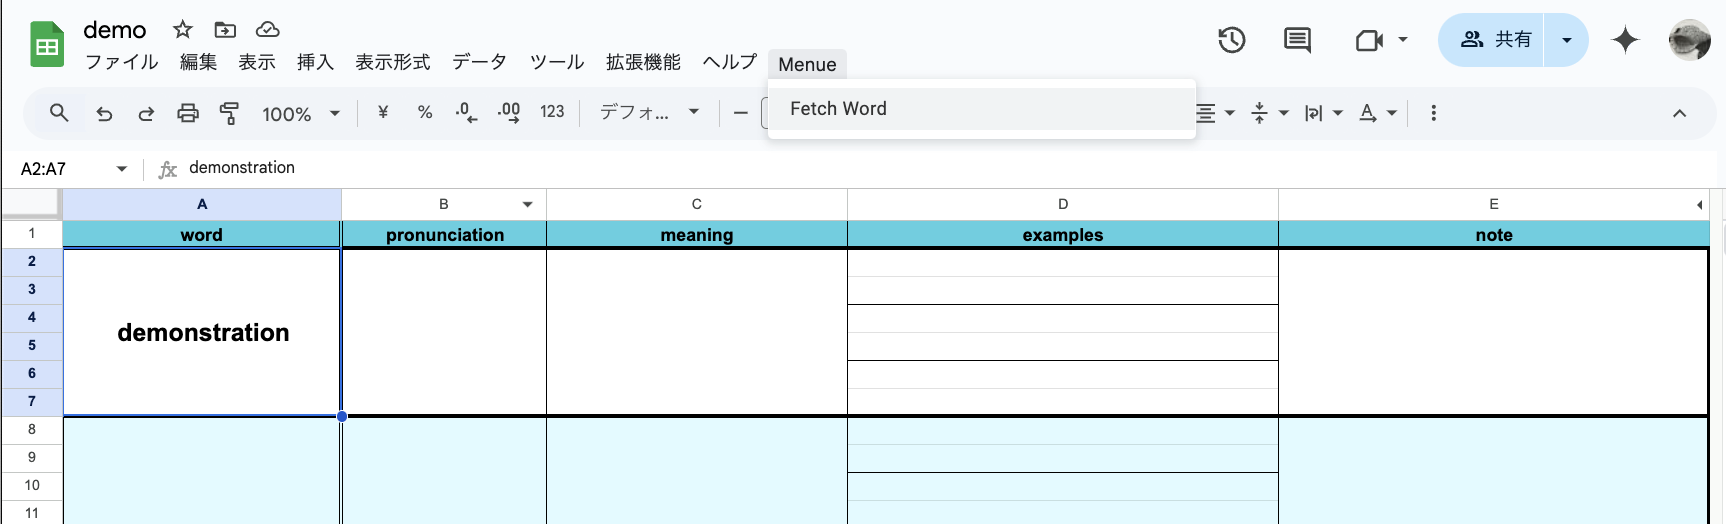
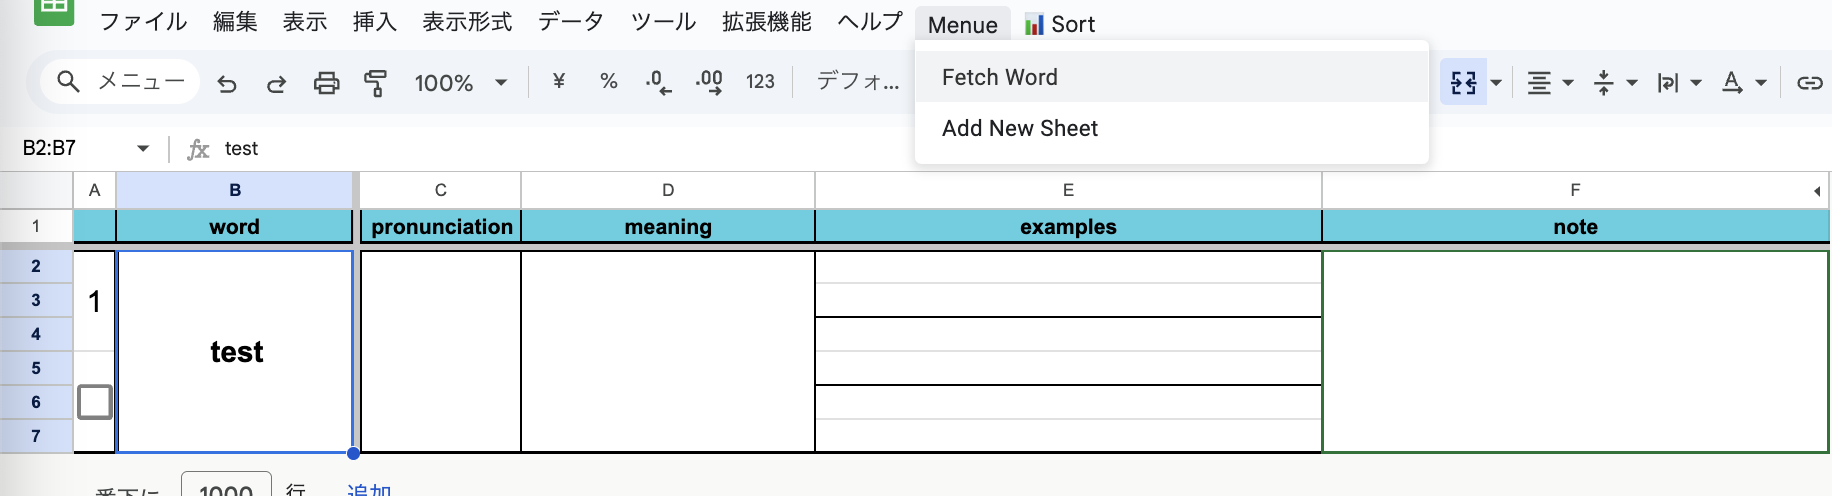
no bug pls

diff --git a/README.md b/README.md
@@ -1,12 +1,10 @@
 # README
 
-![Example Image](asset/gemini_trim.gif)
+![Example Image](asset/gemini240422.gif)
 
-この[スプレッドシート](https://docs.google.com/spreadsheets/d/1H6GYr7bxicvGNF5OTyrranghVtKn2Xm2lNbuyF9b5VQ/copy)は、語学学習者が知らない単語を効率的に検索・記録するためのツールです。以前作成したLaTeXを利用したバージョンよりも導入の負担を軽減する目的で作成されています。
+この[スプレッドシート](https://docs.google.com/spreadsheets/d/1c0rEzWjVzPl2iM8fQuhsog9V-ZLPWn0aZbqlG_HQDmk/copy)は、語学学習者が知らない単語を効率的に検索・記録するためのツールです。以前作成したLaTeXを利用したバージョンよりも導入の負担を軽減する目的で作成されています。
 
 任意の単語について、発音、意味、例文の情報をAI (Gemini)により生成し、それを記録します。
-
-
 
 ## 目次
 
@@ -14,7 +12,8 @@
 2. [機能概要](#機能概要)
 3. [セットアップ手順](#セットアップ手順)
 4. [基本機能](#基本機能)
-5. [シートの追加](#シートの追加)
+5. [ソート機能](#ソート機能)
+6. [シートの追加](#シートの追加)
 
 
 
@@ -46,66 +45,96 @@
 
 ## セットアップ手順
 
-1. **APIキーの取得**:
+1. **APIキーの取得**:  
    このツールは、Google Cloud の Generative Language API を使用します。APIキーを取得して、以下の手順で設定します。
 
    - [Google AI Studio](https://aistudio.google.com/apikey?hl=ja)にアクセス。
    - APIとサービスを有効にし、APIキーを作成します。
 
-        ![Example Image](asset/3.png)
+    ![Example Image](asset/3.png)
 
-2. **シートの準備**:
-    - **シートのコピーを作成**:以下のリンクからスプレッドシートをコピーして利用してください。
+2. **シートの準備**:  
+    **シートのコピーを作成**:以下のリンクからスプレッドシートをコピーして利用してください。
 
-        [こちらからスプレッドシートをコピー](https://docs.google.com/spreadsheets/d/1H6GYr7bxicvGNF5OTyrranghVtKn2Xm2lNbuyF9b5VQ/copy)
+    [こちらからスプレッドシートをコピー](https://docs.google.com/spreadsheets/d/1c0rEzWjVzPl2iM8fQuhsog9V-ZLPWn0aZbqlG_HQDmk/copy)
 
 
-    - **setting シート**: APIキーと使用する言語を設定します。以下の項目を設定してください：
+    - **setting シート**:   
+    **APIキー**と**使用する言語**を設定します。以下の項目を設定してください：
         - `B1`: 使用する言語（例：日本語、英語）
         - `B2`: Gemini APIキー
 
-             ![Example Image](asset/4.png)
+        ![Example Image](asset/4.png)
 
-    - **GASの承認手続き**:
+    - **GASの承認手続き**:  
     スクリプト実行時、GASが必要な権限の承認ダイアログが表示されます。  
     必要な権限確認し、「承認」ボタンを押します。
 
-        ![Example Image](asset/2.png)
+    ![Example Image](asset/2.png)
 
 ## 基本機能
 
-1. **単語の入力**:
-   - setting以外の任意の**シート**の列Aに単語を入力します。入力後、`Menue` メニューから「Fetch Word」を選択します。
-
-       ![Example Image](asset/6.png)
+1. **単語の入力**:  
+setting以外の任意の**シート**の最終行の列Aに単語を入力します。入力後、`Menue` メニューから「Fetch Word」を選択します。
+    ![Example Image](asset/6.png)
 
    
-2. **解説の取得**:
-   - 選択した単語について、APIが辞書的な解説を取得し、次の情報を列BからDに表示します：
-     - 発音、意味、例文1〜3、および日本語訳。
+2. **解説の取得**:  
+選択した単語について、APIが辞書的な解説を取得し、次の情報を列BからDに表示します：  
+    発音、意味、例文1〜3、および日本語訳。
    
-3. **内容の確認と確定**:
-   - 解説が表示された後、ポップアップが表示されます。内容を確定するか、キャンセルするかを選択できます。
+3. **内容の確認と確定**:  
+解説が表示された後、ポップアップが表示されます。内容を確定するか、キャンセルするかを選択できます。
+    ![Example Image](asset/7.png)
 
-       ![Example Image](asset/7.png)
+4. **内容の変更**:  
+確定した内容は、列B〜Dに反映されます。  
+同時に、新しく空欄の行が追加されます。
+    ![Example Image](asset/5.png)
 
-4. **内容の変更**:
-   - 確定した内容は、列B〜Dに反映されます。
+    キャンセルした場合、内容はクリアされます。
+    ![Example Image](asset/8.png)
 
-       ![Example Image](asset/5.png)
+## ソート機能
+3種類の方法（昇順, 降順, シャッフル）で単語をソートします。ソートの方法は「📊 Sort」メニューより選択できます
+1. **昇順ソート**:  
+列Aの番号を基準に、6行ブロックを昇順にソートします。
+![Example Image](asset/14.png)
 
-   - キャンセルした場合、内容はクリアされます。
+2. **降順ソート**:  
+列Aの番号を基準に、6行ブロックを降順にソートします。
+![Example Image](asset/15.png)
 
-       ![Example Image](asset/8.png)
+3. **シャッフル**:  
+ランダムにシャッフルして表示します。
+![Example Image](asset/16.png)
+
+4. **チェック✅した単語を除外してソート**:  
+チェック✅なしの単語を優先的に上部にまとめ、ソートを行うことができます。  
+チェック✅単語の除外のON/OFFは「📊 Sort」メニューから変更できます。
+    ![Example Image](asset/13.png)
+
+    - チェック✅除外 + 昇順  
+✅無し単語のみで昇順 → ✅あり単語のみで昇順
+![Example Image](asset/17.png)
+
+    - チェック✅除外 + 降順  
+✅無し単語のみで降順 → ✅あり単語のみで降順
+![Example Image](asset/18.png)
+
+    - チェック✅除外 + シャッフル  
+✅無し単語のみでシャッフル → ✅あり単語のみでシャッフル
+![Example Image](asset/19.png)
 
 ## シートの追加
 
-1. **メニュー操作**:
-   - `Menue` メニューから「Add New Sheet」を選択します。
+1. **メニュー操作**:  
+`Menue` メニューから「Add New Sheet」を選択します。
+    ![Example Image](asset/10.png)
 
-       ![Example Image](asset/10.png)
-   - 処理が終了すると、新しいシートが追加されます。
-       ![Example Image](asset/11.png)
-2. **シート名の変更**:
-   - シートの名前をお好みに変更してください
-       ![Example Image](asset/12.png)
+    処理が終了すると、新しいシートが追加されます。
+    ![Example Image](asset/11.png)
+
+2. **シート名の変更**:  
+シートの名前をお好みに変更してください
+    ![Example Image](asset/12.png)
